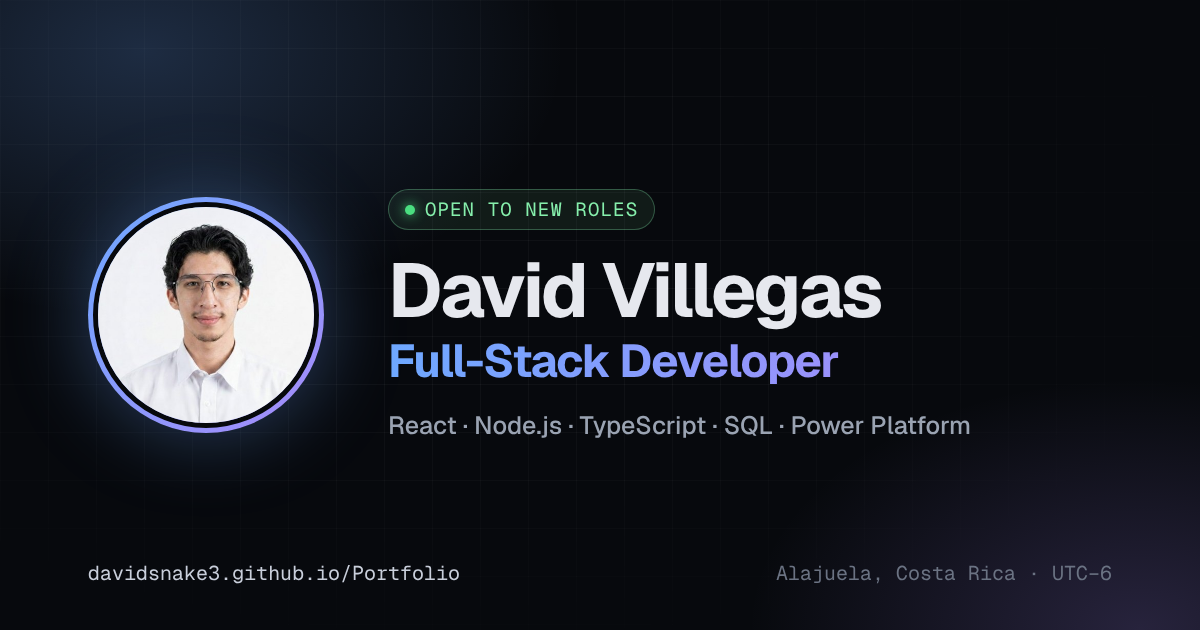
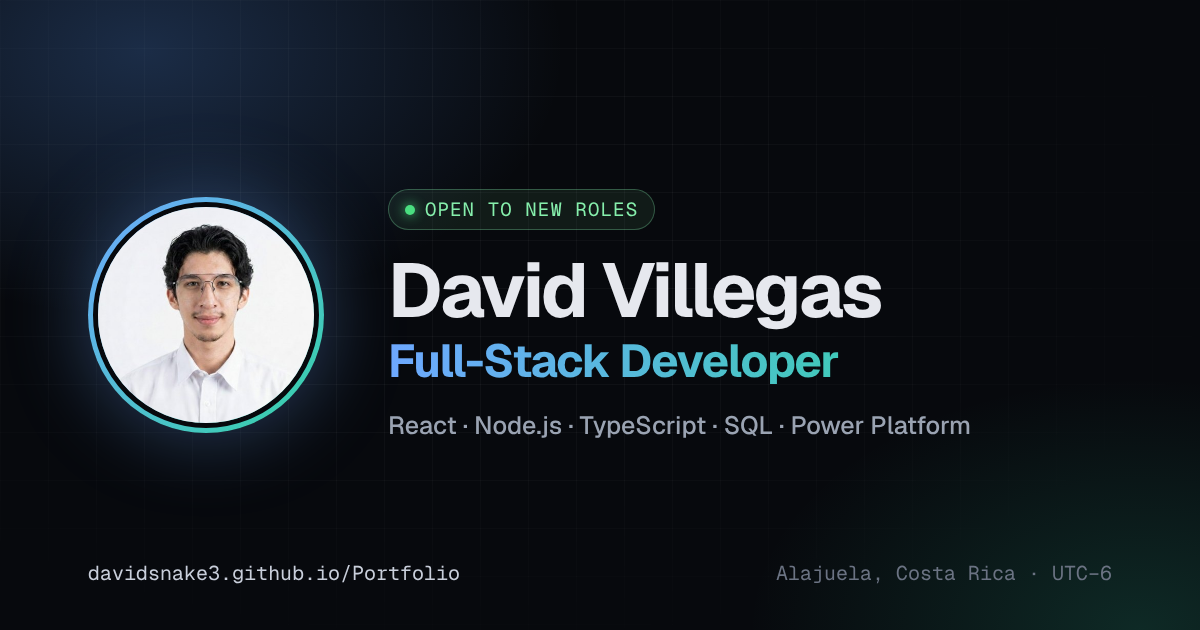
Fix role wrapping in hero and refresh share image colors
Claude-Session: https://claude.ai/code/session_01Vayi86UewZziagE8hXAxMZ

diff --git a/src/components/hero.tsx b/src/components/hero.tsx
@@ -7,6 +7,7 @@ import { ui } from "@/data/ui";
 import { t, type Lang } from "@/lib/i18n";
 import { asset } from "@/lib/utils";
 import { ArrowUpRight, Clock, Download, Github, Linkedin, Mail, MapPin } from "lucide-react";
+import { Fragment } from "react";
 
 export function Hero({ lang }: { lang: Lang }) {
   const other: Lang = lang === "en" ? "es" : "en";
@@ -44,10 +45,10 @@ export function Hero({ lang }: { lang: Lang }) {
                 {t(profile.role, lang)
                   .split(" ")
                   .map((w, k) => (
-                    <span key={k} className={w.includes("-") ? "whitespace-nowrap" : undefined}>
-                      {k > 0 ? " " : ""}
-                      {w}
-                    </span>
+                    <Fragment key={k}>
+                      {k > 0 && " "}
+                      <span className={w.includes("-") ? "whitespace-nowrap" : undefined}>{w}</span>
+                    </Fragment>
                   ))}
               </span>
             </h1>
